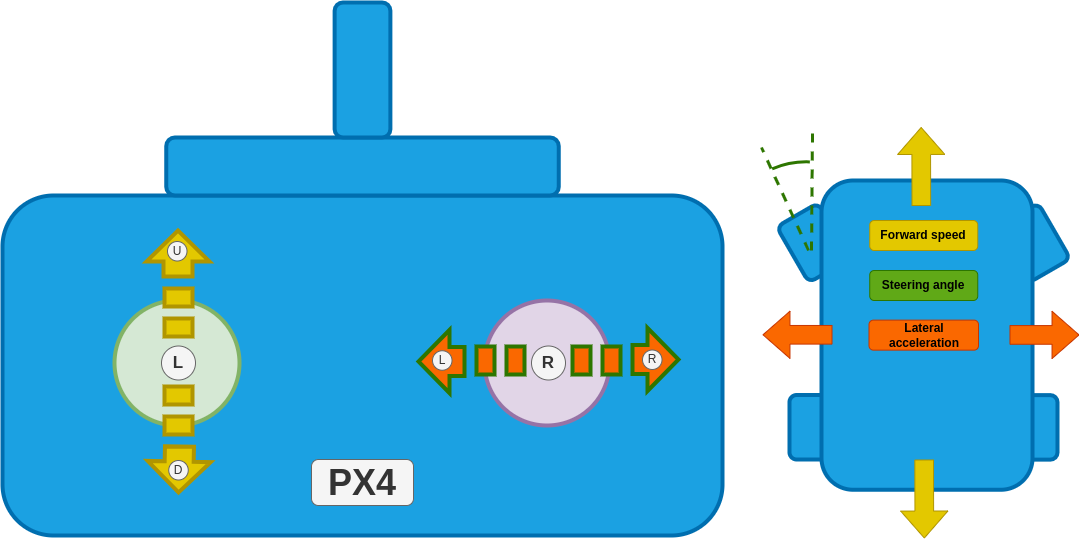
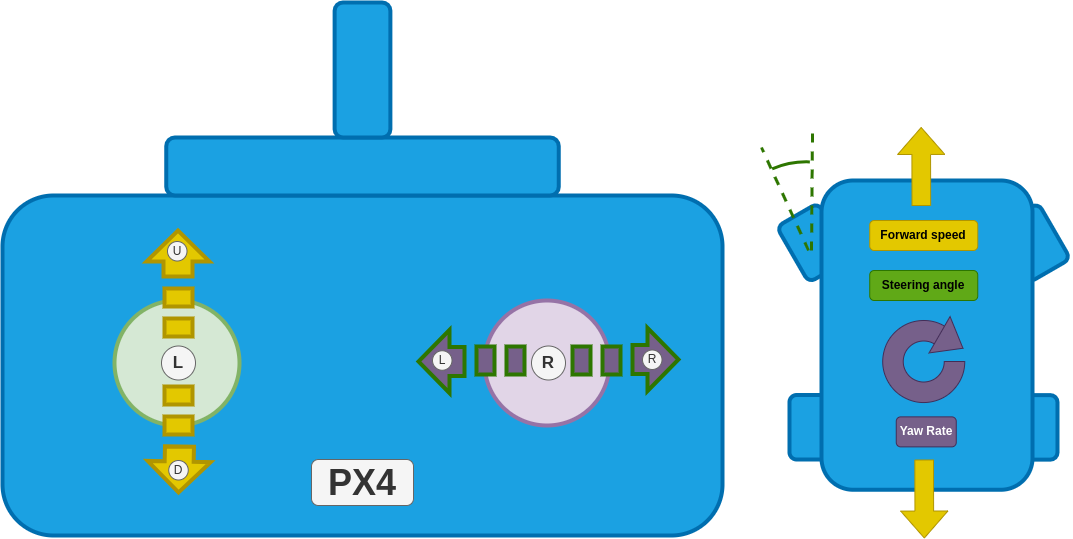
docs: rover cleanup/update

diff --git a/docs/en/config_rover/differential.md b/docs/en/config_rover/differential.md
@@ -270,9 +270,24 @@ The required parameters are separated into the following sections:
 
 ### Speed
 
-These parameters are used to calculate the speed setpoint in auto modes:
+The rover slows down when approaching a waypoint based on the angle between the line segment between the previous/current waypoint and current/next waypoint ($\theta_{WP}$).
 
-1. [RO_DECEL_LIM](#RO_DECEL_LIM) ($m/s^2$) and [RO_JERK_LIM](#RO_JERK_LIM) ($m/s^3$) are used to calculate a velocity trajectory such that the rover comes to a smooth stop as it reaches a waypoint.
+![Illustration of the activation threshold of the slow down effect](../../assets/airframes/rover/rover_differential/differential_slow_down_effect.png)
+
+This can be tuned with the following parameters:
+
+1. [RD_TRANS_DRV_TRN](#RD_TRANS_DRV_TRN) ($\degree$): If the angle is smaller than 180° - [RD_TRANS_DRV_TRN](#RD_TRANS_DRV_TRN) the rover will come to a full stop at the waypoint to then turn on the spot. For more information on the [RD_TRANS_DRV_TRN](#RD_TRANS_DRV_TRN) parameter see [State Machine](#state-machine).
+
+2. [RD_MISS_SPD_GAIN](#RD_MISS_SPD_GAIN) ($m/s$): If the angle is larger than 180° - [RD_TRANS_DRV_TRN](#RD_TRANS_DRV_TRN) the rover will slow down to the following speed:
+   <!-- prettier-ignore -->
+   $$ v_{trans} = v_{max} \cdot (1 - \theta_{WP, norm} \cdot v_{gain})$$
+   with
+
+   - $v_{max}:$ [RO_SPEED_LIM](#RO_SPEED_LIM),
+   - $\theta_{WP, norm}:$ $\theta_{WP}$ interpolated from [0, 180] -> [0, 1],
+   - $v_{gain}:$ [RD_MISS_SPD_GAIN](#RD_MISS_SPD_GAIN)
+
+3. [RO_DECEL_LIM](#RO_DECEL_LIM) ($m/s^2$) and [RO_JERK_LIM](#RO_JERK_LIM) ($m/s^3$) are used to calculate a velocity trajectory such that the rover comes to a smooth stop as it reaches a waypoint.
 
    ::: tip
    Plan a mission for the rover to drive a square and observe how it slows down when approaching a waypoint:
@@ -283,15 +298,8 @@ These parameters are used to calculate the speed setpoint in auto modes:
    These two parameters have to be tuned as a pair, repeat until you are satisfied with the behaviour.
    :::
 
-2. Plot the `adjusted_speed_body_x_setpoint` and `measured_speed_body_x` from the [RoverVelocityStatus](../msg_docs/RoverVelocityStatus.md) message over each other.
+4. Plot the `adjusted_speed_body_x_setpoint` and `measured_speed_body_x` from the [RoverVelocityStatus](../msg_docs/RoverVelocityStatus.md) message over each other.
    If the tracking of these setpoints is not satisfactory adjust the values for [RO_SPEED_P](#RO_SPEED_P) and [RO_SPEED_I](#RO_SPEED_I).
-
-The rover only slows down when approaching the waypoint if the angle between the line segment between the previous/current waypoint and current/next waypoint is smaller than 180° - [RD_TRANS_DRV_TRN](#RD_TRANS_DRV_TRN).
-In other words: The rover slows down only if the expected heading error towards the next waypoint when arriving at the current waypoint is below [RD_TRANS_DRV_TRN](#RD_TRANS_DRV_TRN).
-
-![Illustration of the activation threshold of the slow down effect](../../assets/airframes/rover/rover_differential/differential_slow_down_effect.png)
-
-For more information on the [RD_TRANS_DRV_TRN](#RD_TRANS_DRV_TRN) parameter see [State Machine](#state-machine).
 
 ### State Machine
 

diff --git a/docs/en/flight_modes_rover/ackermann.md b/docs/en/flight_modes_rover/ackermann.md
@@ -19,23 +19,25 @@ Manual modes require stick inputs from the user to drive the vehicle.
 The sticks provide the same "high level" control effects over direction and rate of movement in all manual modes:
 
 - `Left stick up/down`: Drive the rover forwards/backwards (controlling speed)
-- `Right stick left/right`: Make a left/right turn (controlling steering angle ([Manual mode](#manual-mode)) or yaw rate ([Acro](#acro-mode) and [Position](#position-mode))).
+- `Right stick left/right`: Make a left/right turn (controlling steering angle ([Manual mode](#manual-mode)) or yaw rate ([Acro](#acro-mode), [Stabilized](#stabilized-mode) and [Position](#position-mode))).
 
 The manual modes provide progressively increasing levels of autopilot support for maintaining a course, speed, and rate of turn, compensating for external factors such as slopes or uneven terrain.
 
-| Mode                       | Features                                                                                                                                                                         |
-| -------------------------- | -------------------------------------------------------------------------------------------------------------------------------------------------------------------------------- |
-| [Manual](#manual-mode)     | No autopilot support. User is responsible for keeping the rover on the desired course and maintaining speed and rate of turn.                                                    |
-| [Acro](#acro-mode)         | + Maintains the yaw rate (This makes it feel more like driving a car than manual mode). <br>+ Allows maximum yaw rate to be limited (Protects against roll over).                |
-| [Position](#position-mode) | + Maintains the course (Best mode for driving a straight line).<br>+ Maintains speed against disturbances, e.g. when driving up a hill.<br>+ Allows maximum speed to be limited. |
+| Mode                           | Features                                                                                                                                                                         |
+| ------------------------------ | -------------------------------------------------------------------------------------------------------------------------------------------------------------------------------- |
+| [Manual](#manual-mode)         | No autopilot support. User is responsible for keeping the rover on the desired course and maintaining speed and rate of turn.                                                    |
+| [Acro](#acro-mode)             | + Maintains the yaw rate (This makes it feel more like driving a car than manual mode). <br>+ Allows maximum yaw rate to be limited (Protects against roll over).                |
+| [Stabilized](#stabilized-mode) | + Maintans the yaw (This makes it significantly better at holding a straight line).                                                                                              |
+| [Position](#position-mode)     | + Maintains the course (Best mode for driving a straight line).<br>+ Maintains speed against disturbances, e.g. when driving up a hill.<br>+ Allows maximum speed to be limited. |
 
 ::: details Overview mode mapping to control effect
 
-| Mode                       | Forward/backwards speed                                                  | Steering angle/yaw rate                                                                                                                                                                     | Required measurements                           |
-| -------------------------- | ------------------------------------------------------------------------ | ------------------------------------------------------------------------------------------------------------------------------------------------------------------------------------------- | ----------------------------------------------- |
-| [Manual](#manual-mode)     | Directly map stick input to motor command.                               | Directly map stick input to steering angle.                                                                                                                                                 | None.                                           |
-| [Acro](#acro-mode)         | Directly map stick input to motor command.                               | Stick input creates a yaw rate setpoint for the control system to regulate.                                                                                                                 | yaw rate.                                       |
-| [Position](#position-mode) | Stick input creates a speed setpoint for the control system to regulate. | Stick input creates a yaw rate setpoint for the control system to regulate. If this setpoint is zero (stick is centered) the control system will keep the rover driving in a straight line. | yaw rate, yaw, speed and global position (GPS). |
+| Mode                           | Forward/backwards speed                                                  | Steering angle/yaw rate                                                                                                                                                                           | Required measurements                           |
+| ------------------------------ | ------------------------------------------------------------------------ | ------------------------------------------------------------------------------------------------------------------------------------------------------------------------------------------------- | ----------------------------------------------- |
+| [Manual](#manual-mode)         | Directly map stick input to motor command.                               | Directly map stick input to steering angle.                                                                                                                                                       | None.                                           |
+| [Acro](#acro-mode)             | Directly map stick input to motor command.                               | Stick input creates a yaw rate setpoint for the control system to regulate.                                                                                                                       | yaw rate.                                       |
+| [Stabilized](#stabilized-mode) | Directly map stick input to motor commands.                              | Stick input creates a yaw rate setpoint for the control system to regulate. If this setpoint is zero (stick is centered) the control system will maintain the current yaw (heading) of the rover. | Yaw rate and yaw.                               |
+| [Position](#position-mode)     | Stick input creates a speed setpoint for the control system to regulate. | Stick input creates a yaw rate setpoint for the control system to regulate. If this setpoint is zero (stick is centered) the control system will keep the rover driving in a straight line.       | yaw rate, yaw, speed and global position (GPS). |
 
 :::
 

diff --git a/docs/en/config_rover/ackermann.md b/docs/en/config_rover/ackermann.md
@@ -105,6 +105,28 @@ Navigate to [Parameters](../advanced_config/parameters.md) in QGroundControl and
 For this mode to work properly [Manual mode](#acro-mode) must've already been configured!
 :::
 
+Yaw rate can be directly mapped to a steering input based on the forward speed of the rover:
+
+<!-- prettier-ignore -->
+$$ \delta = \arctan(\frac{w_b \cdot \dot{\psi}}{v}) $$
+
+with
+
+- $w_b:$ Wheel base,
+- $\delta:$ Steering angle,
+- $\dot{\psi}:$ Yaw rate
+- $v:$ Forward speed.
+
+For driving this means that the same right hand stick input will cause a different steering angle based on how fast you are driving.
+By limiting the maximum yaw rate, we can restrict the steering angle based on the speed, which can prevent the rover from rolling over.
+This mode will feel more like "driving a car" than [Manual mode](#manual-mode).
+
+::: info
+The yaw rate is only close loop controlled when driving forwards.
+When driving backwards the yaw rate setpoint is directly mapped to a steering angle using the equation above.
+This is due to the fact that rear wheel steering (driving a car with front-wheel steering backwards) is non-minimum-phase w.r.t to the yaw rate which leads to instabilities when doing closed loop control.
+:::
+
 To set up [Acro mode](../flight_modes_rover/ackermann.md#acro-mode) configure the following [parameters](../advanced_config/parameters.md) in QGroundControl:
 
 1. [RO_YAW_RATE_LIM](#RO_YAW_RATE_LIM): Maximum yaw rate you want to allow for your rover.